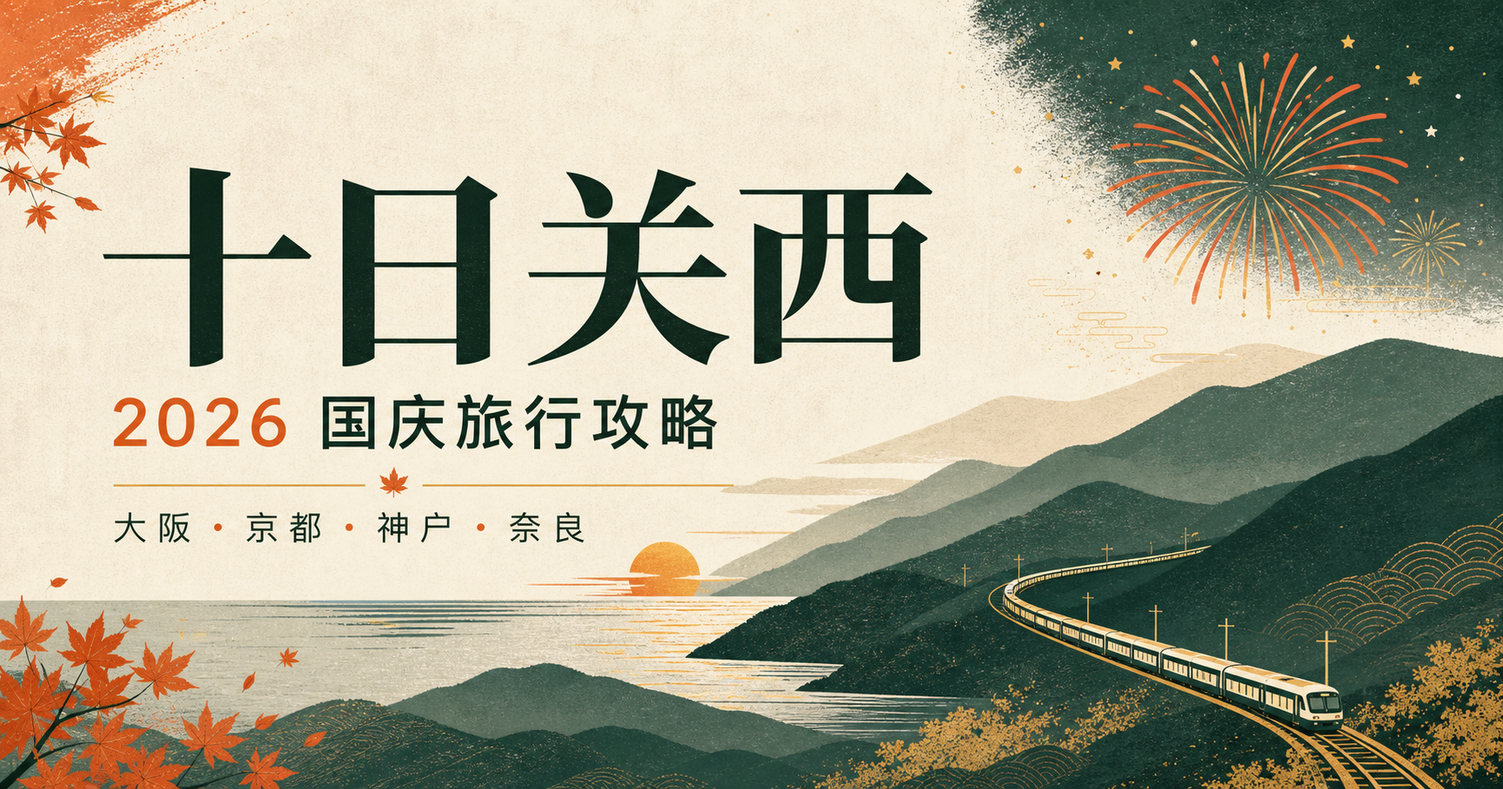
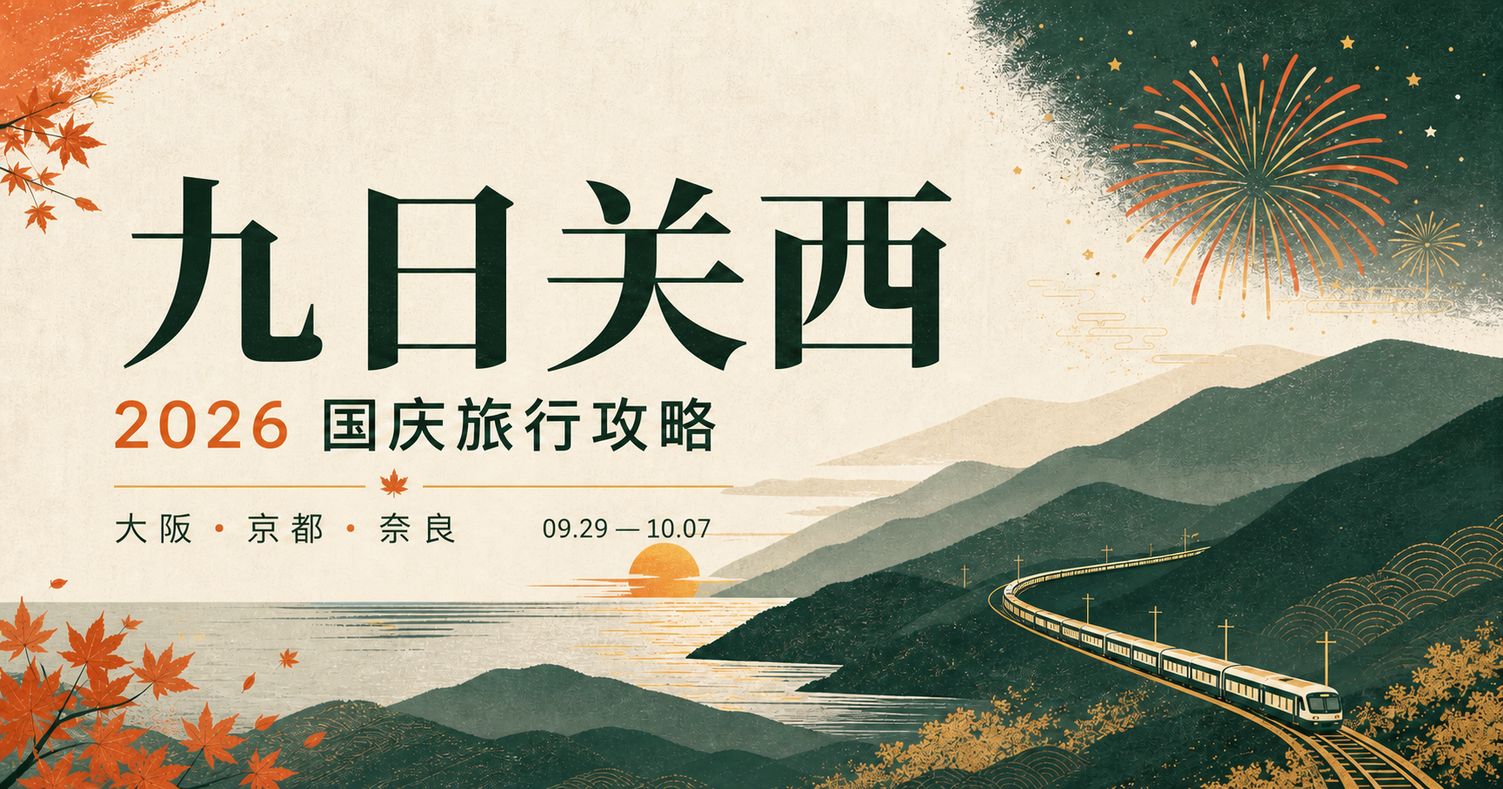
Revise Kansai trip for September 29

diff --git a/app/page.tsx b/app/page.tsx
@@ -1,33 +1,25 @@
 const days = [
   {
-    date: "09.28",
-    day: "周一",
+    date: "09.29",
+    day: "周二",
     city: "大阪",
     stay: "难波 / 心斋桥",
     title: "抵达关西，先去感受大阪的夜",
     route: "KIX → 难波入住 → 心斋桥筋 → 道顿堀 → 法善寺横丁",
     note: "按 14:00 落地计算，第一晚不安排长套餐。心斋桥是必到项，也适合处理药妆和基础购物。",
+    transit: "机场进城约 35–45 分钟；预计 16:00–16:30 到酒店",
     tone: "city",
   },
   {
-    date: "09.29",
-    day: "周二",
+    date: "09.30",
+    day: "周三",
     city: "大阪",
     stay: "难波 / 心斋桥",
     title: "USJ 全天：从任天堂世界玩到惊魂夜",
     route: "超级任天堂世界 → 哈利波特 → 主力项目 → 万圣节惊魂夜",
     note: "开园前 60–90 分钟抵达。购买含超级任天堂世界指定入场的 Express Pass，晚上保留体力看街头僵尸和限定内容。",
+    transit: "难波 → 环球城约 30–40 分钟；建议 7:00–7:30 离店",
     tone: "special",
-  },
-  {
-    date: "09.30",
-    day: "周三",
-    city: "神户",
-    stay: "难波 / 心斋桥",
-    title: "山、瀑布与港口夜景",
-    route: "新神户 → 布引缆车 → 香草园 → 布引瀑布 → 北野 → 美利坚公园",
-    note: "推荐缆车上山、徒步下山。雨后山路湿滑时改成缆车往返，下午再去港口和旧居留地。",
-    tone: "nature",
   },
   {
     date: "10.01",
@@ -37,6 +29,7 @@ const days = [
     title: "古寺之后，走进千年原始林",
     route: "东大寺 → 二月堂 → 春日大社 → 春日山原始林 → 奈良町",
     note: "不只停留在奈良公园。体力正常可走 2–3 小时林间短线；想轻松就缩短徒步，把傍晚留给奈良町。",
+    transit: "近铁大阪难波 ↔ 近铁奈良，单程约 40 分钟",
     tone: "nature",
   },
   {
@@ -46,7 +39,8 @@ const days = [
     stay: "京都站附近",
     title: "换城入住，沿东山慢慢散步",
     route: "银阁寺 → 哲学之道 → 南禅寺 → 圆山公园 → 八坂神社 → 祇园",
-    note: "上午将行李送至京都酒店后再出发。路线以步行为主，晚上适合安排菊乃井本店。",
+    note: "上午退房后直接到京都站附近酒店寄存行李。下午路线以步行为主，晚上适合安排菊乃井本店。",
+    transit: "难波 → 京都站约 50–60 分钟；京都站 → 银阁寺约 30–40 分钟",
     tone: "culture",
   },
   {
@@ -57,6 +51,7 @@ const days = [
     title: "岚山早行，避开周末人潮",
     route: "竹林 → 天龙寺 → 大河内山庄 → 常寂光寺 / 祇王寺 → 嵯峨野",
     note: "7:00 左右抵达竹林。以寺院庭园和嵯峨野小路为主，有余力再加金阁寺，不必硬塞保津川游船。",
+    transit: "JR 京都 → 嵯峨岚山约 17 分钟；当地步行 4–6 小时",
     tone: "nature",
   },
   {
@@ -67,6 +62,7 @@ const days = [
     title: "任天堂、宇治川与秋日烟火",
     route: "任天堂博物馆 → 平等院 → 宇治川 → JR 长池 → 城阳秋花火",
     note: "最理想是 10:00 左右入馆，14:00 后逛宇治，16:30 前到烟火会场。三处都在京都南部，几乎不折返。",
+    transit: "京都 → 小仓约 25–30 分钟；宇治 → 长池约 20 分钟；长池 → 京都约 35 分钟",
     tone: "special",
   },
   {
@@ -77,6 +73,7 @@ const days = [
     title: "翻过鞍马山，抵达贵船",
     route: "出町柳 → 鞍马寺 → 木根道 → 贵船神社三社 → 出町柳",
     note: "晴天从鞍马走到贵船约需半天；雨天取消山路，直接由贵船口搭巴士去神社。返程加入出町桝形商店街和鸭川跳石。",
+    transit: "京都 → 鞍马约 60–75 分钟；翻山 2.5–3 小时；贵船 → 京都约 70 分钟",
     tone: "nature",
   },
   {
@@ -87,6 +84,7 @@ const days = [
     title: "回到大阪，城市与购物收尾",
     route: "大阪城公园 → 中之岛 / 梅田 → 日本桥电电城 → 心斋桥",
     note: "上午从京都回大阪，先寄存行李。晚餐可订 La Cime，结束后回难波打包行李。",
+    transit: "京都站 → 难波约 50–60 分钟；大阪市内以地铁和步行为主",
     tone: "city",
   },
   {
@@ -97,6 +95,7 @@ const days = [
     title: "留足时间，舒服返沪",
     route: "难波 → 南海电铁 → 关西机场",
     note: "12:00 国际航班建议 7:45–8:00 离开酒店，约 9:00 抵达机场。",
+    transit: "南海 Rapi:t / 机场急行约 35–45 分钟，另留值机与安检时间",
     tone: "city",
   },
 ];
@@ -124,7 +123,7 @@ const bookingCards = [
     number: "03",
     urgency: "尽快锁定",
     title: "USJ",
-    body: "购买 9 月 29 日日期指定 Studio Pass，并选择含超级任天堂世界指定入场的 Express Pass。2026 万圣节惊魂夜正在举办。",
+    body: "购买 9 月 30 日日期指定 Studio Pass，并选择含超级任天堂世界指定入场的 Express Pass。当天仍在 2026 万圣节惊魂夜活动期内。",
     meta: "当天可能早于标示时间开园",
     href: "https://www.usj.co.jp/web/en/us/tickets/express-pass",
     cta: "查看 Express Pass",
@@ -153,10 +152,11 @@ const restaurants = [
 ];
 
 const practical = [
-  ["住宿", "9.28–10.02 大阪难波／心斋桥；10.02–10.06 京都站；10.06 最后一晚回难波。"],
-  ["行李", "10 月 1 日请大阪酒店协助把大箱子宅配到京都，去任天堂和烟火当天只带随身包。"],
+  ["住宿", "9.29–10.02 大阪难波／心斋桥 3 晚；10.02–10.06 京都站 4 晚；10.06 最后一晚回难波。"],
+  ["行李", "10 月 2 日退房后带行李直接去京都站附近酒店寄存；10 月 6 日同样先回难波寄存，再开始大阪市内行程。"],
   ["交通", "关西内部使用 ICOCA 加单独购票即可，一般不需要全国 JR Pass；京都优先坐铁路而不是挤巴士。"],
-  ["天气", "9 月末仍可能受台风和阵雨影响。神户、奈良两天可互换；贵船下雨则保留神社、取消翻山。"],
+  ["取舍", "出发改为 9 月 29 日后少了一整天，主线保留奈良、删去神户；若更想看神户，可用神户布引＋港口替换 10 月 1 日奈良。"],
+  ["天气", "9 月末仍可能受台风和阵雨影响。奈良与岚山可视天气微调；贵船下雨则保留神社、取消翻山。"],
 ];
 
 export default function Home() {
@@ -178,14 +178,14 @@ export default function Home() {
 
         <div className="hero-content shell">
           <p className="eyebrow">2026 · 国庆关西旅行手册</p>
-          <h1>十日关西，<br />沿山海与烟火前行。</h1>
+          <h1>九日关西，<br />沿山林与烟火前行。</h1>
           <p className="hero-copy">
-            从大阪的霓虹出发，穿过神户山海、奈良古林和京都北山，
+            从大阪的霓虹出发，穿过奈良古林、岚山嵯峨野和京都北山，
             把任天堂、贵船、USJ 与一场秋日烟火串成一条舒服的路线。
           </p>
           <div className="hero-actions">
             <a className="primary-button" href="#route">开始阅读</a>
-            <span className="trip-date">09.28 — 10.07</span>
+            <span className="trip-date">09.29 — 10.07</span>
           </div>
         </div>
 
@@ -197,7 +197,7 @@ export default function Home() {
       <section className="overview shell" aria-label="行程概览">
         <article>
           <span>住宿节奏</span>
-          <strong>大阪 4晚 · 京都 4晚 · 大阪 1晚</strong>
+          <strong>大阪 3晚 · 京都 4晚 · 大阪 1晚</strong>
         </article>
         <article>
           <span>路线基调</span>
@@ -224,6 +224,7 @@ export default function Home() {
               <span><i className="legend-line main-line" />换住宿地</span>
               <span><i className="legend-line day-line" />当天往返</span>
               <span><i className="legend-dot" />住宿据点</span>
+              <span><i className="legend-label">约</i>预计交通时间</span>
             </div>
             <span className="map-hint">手机端可左右滑动查看</span>
           </div>
@@ -238,72 +239,77 @@ export default function Home() {
               <i className="map-line main map-line-kix-osaka" aria-hidden="true" />
               <i className="map-line main map-line-osaka-kyoto" aria-hidden="true" />
               <i className="map-line day map-line-osaka-usj" aria-hidden="true" />
-              <i className="map-line day map-line-osaka-kobe" aria-hidden="true" />
               <i className="map-line day map-line-osaka-nara" aria-hidden="true" />
               <i className="map-line day map-line-kyoto-arashiyama" aria-hidden="true" />
               <i className="map-line day map-line-kyoto-kifune" aria-hidden="true" />
               <i className="map-line day map-line-kyoto-uji" aria-hidden="true" />
               <i className="map-line event map-line-uji-joyo" aria-hidden="true" />
 
+              <span className="map-route-label label-kix"><strong>南海 Rapi:t / 机场急行</strong>约 35–45 分</span>
+              <span className="map-route-label label-usj"><strong>JR 换乘</strong>约 30–40 分</span>
+              <span className="map-route-label label-nara"><strong>近铁奈良线</strong>单程约 40 分</span>
+              <span className="map-route-label label-osaka-kyoto"><strong>地铁＋JR 新快速</strong>约 50–60 分</span>
+              <span className="map-route-label label-arashiyama"><strong>JR 嵯峨野线</strong>约 17 分</span>
+              <span className="map-route-label label-kifune"><strong>JR＋京阪＋叡山电铁</strong>约 60–75 分</span>
+              <span className="map-route-label label-uji"><strong>近铁京都线</strong>约 25–30 分</span>
+              <span className="map-route-label label-joyo"><strong>JR 奈良线</strong>约 20 分</span>
+
               <a className="map-node node-kix" href="https://www.google.com/maps/search/?api=1&query=Kansai+International+Airport" target="_blank" rel="noreferrer">
                 <span className="node-marker airport">✦</span>
                 <strong>关西机场</strong>
-                <small>09.28 / 10.07</small>
+                <small>09.29 抵达 / 10.07 返程</small>
               </a>
-              <a className="map-node hub node-osaka" href="https://www.google.com/maps/search/?api=1&query=Namba+Osaka" target="_blank" rel="noreferrer">
+              <a className="map-node hub stay-node node-osaka" href="https://www.google.com/maps/search/?api=1&query=Namba+Osaka" target="_blank" rel="noreferrer">
+                <span className="stay-badge">住宿</span>
                 <span className="node-marker">1</span>
-                <strong>大阪</strong>
-                <small>难波 · 两段住宿</small>
+                <strong>大阪 · 难波 / 心斋桥</strong>
+                <small>09.29–10.02 · 3晚<br />10.06 · 1晚</small>
               </a>
               <a className="map-node node-usj" href="https://www.google.com/maps/search/?api=1&query=Universal+Studios+Japan" target="_blank" rel="noreferrer">
                 <span className="node-marker">2</span>
                 <strong>USJ</strong>
-                <small>09.29</small>
-              </a>
-              <a className="map-node node-kobe" href="https://www.google.com/maps/search/?api=1&query=Shin-Kobe+Station" target="_blank" rel="noreferrer">
-                <span className="node-marker">3</span>
-                <strong>神户</strong>
-                <small>09.30</small>
+                <small>09.30 · 全天</small>
               </a>
               <a className="map-node node-nara" href="https://www.google.com/maps/search/?api=1&query=Nara+Park" target="_blank" rel="noreferrer">
-                <span className="node-marker">4</span>
+                <span className="node-marker">3</span>
                 <strong>奈良</strong>
                 <small>10.01</small>
               </a>
-              <a className="map-node hub node-kyoto" href="https://www.google.com/maps/search/?api=1&query=Kyoto+Station" target="_blank" rel="noreferrer">
-                <span className="node-marker">5</span>
-                <strong>京都</strong>
-                <small>京都站 · 四晚</small>
+              <a className="map-node hub stay-node node-kyoto" href="https://www.google.com/maps/search/?api=1&query=Kyoto+Station" target="_blank" rel="noreferrer">
+                <span className="stay-badge">住宿</span>
+                <span className="node-marker">4</span>
+                <strong>京都 · 京都站附近</strong>
+                <small>10.02–10.06 · 4晚</small>
               </a>
               <a className="map-node node-arashiyama" href="https://www.google.com/maps/search/?api=1&query=Arashiyama+Kyoto" target="_blank" rel="noreferrer">
-                <span className="node-marker">6</span>
+                <span className="node-marker">5</span>
                 <strong>岚山</strong>
                 <small>10.03</small>
               </a>
               <a className="map-node node-kifune" href="https://www.google.com/maps/search/?api=1&query=Kifune+Shrine+Kyoto" target="_blank" rel="noreferrer">
                 <span className="node-marker">8</span>
                 <strong>贵船 · 鞍马</strong>
-                <small>10.05</small>
+                <small>10.05 · 徒步 2.5–3 小时</small>
               </a>
               <a className="map-node node-uji" href="https://www.google.com/maps/search/?api=1&query=Nintendo+Museum+Uji" target="_blank" rel="noreferrer">
-                <span className="node-marker">7</span>
-                <strong>宇治</strong>
-                <small>任天堂博物馆</small>
+                <span className="node-marker">6</span>
+                <strong>宇治 · 任天堂博物馆</strong>
+                <small>10.04 · 预约入馆</small>
               </a>
               <a className="map-node event-node node-joyo" href="https://www.google.com/maps/search/?api=1&query=Kyoto+Prefectural+Kizugawa+Sports+Park" target="_blank" rel="noreferrer">
-                <span className="node-marker">✺</span>
-                <strong>城阳</strong>
-                <small>10.04 烟火</small>
+                <span className="node-marker">7</span>
+                <strong>城阳 · 长池</strong>
+                <small>10.04 · 19:00 烟火</small>
               </a>
             </div>
           </div>
 
           <ol className="route-sequence" aria-label="住宿和往返顺序">
-            <li><span>01</span><strong>KIX → 大阪</strong><small>入境后住难波 4 晚</small></li>
-            <li><span>02</span><strong>大阪放射往返</strong><small>USJ · 神户 · 奈良</small></li>
-            <li><span>03</span><strong>大阪 → 京都</strong><small>10.02 换住宿地</small></li>
-            <li><span>04</span><strong>京都放射往返</strong><small>岚山 · 贵船 · 宇治城阳</small></li>
-            <li><span>05</span><strong>京都 → 大阪 → KIX</strong><small>最后一晚回难波</small></li>
+            <li><span>01</span><strong>09.29 · KIX → 大阪</strong><small>约 35–45 分 · 难波住 3 晚</small></li>
+            <li><span>02</span><strong>09.30–10.01 · 往返</strong><small>USJ 约 30–40 分 · 奈良约 40 分</small></li>
+            <li><span>03</span><strong>10.02 · 大阪 → 京都</strong><small>约 50–60 分 · 京都站住 4 晚</small></li>
+            <li><span>04</span><strong>10.03–10.05 · 往返</strong><small>岚山 · 宇治城阳 · 贵船鞍马</small></li>
+            <li><span>05</span><strong>10.06–10.07 · 大阪返程</strong><small>回难波住 1 晚 · 次晨去 KIX</small></li>
           </ol>
         </div>
       </section>
@@ -328,6 +334,7 @@ export default function Home() {
               <div className="timeline-copy">
                 <h3>{item.title}</h3>
                 <p className="route-line">{item.route}</p>
+                <p className="transit-line"><span>交通耗时</span>{item.transit}</p>
                 <p>{item.note}</p>
               </div>
             </article>
@@ -449,7 +456,7 @@ export default function Home() {
       <section className="practical shell" aria-labelledby="practical-title">
         <div className="practical-title">
           <p className="eyebrow dark">GOOD TO KNOW</p>
-          <h2 id="practical-title">让路线保持松弛的四件事。</h2>
+          <h2 id="practical-title">让路线保持松弛的五件事。</h2>
         </div>
         <div className="practical-list">
           {practical.map(([title, body], index) => (

diff --git a/app/globals.css b/app/globals.css
@@ -84,51 +84,62 @@ a:focus-visible { outline: 3px solid var(--gold); outline-offset: 5px; border-ra
 .legend-line.main-line { background: var(--orange); }
 .legend-line.day-line { height: 0; border-top: 2px dashed var(--moss); }
 .legend-dot { display: inline-block; width: 9px; height: 9px; border-radius: 50%; background: var(--ink); box-shadow: 0 0 0 4px rgba(22,35,30,.1); }
+.legend-label { display: grid; place-items: center; width: 20px; height: 18px; border: 1px solid rgba(22,35,30,.22); border-radius: 4px; color: var(--orange); background: var(--cream); font: 700 9px Georgia, serif; }
 .map-hint { color: #918980; font-size: 11px; }
 .map-scroller { overflow-x: auto; overscroll-behavior-inline: contain; background: #dfe9e5; scrollbar-color: var(--orange) rgba(22,35,30,.08); scrollbar-width: thin; }
 .map-scroller::-webkit-scrollbar { height: 8px; }
 .map-scroller::-webkit-scrollbar-thumb { border-radius: 999px; background: var(--orange); }
 .map-scroller::-webkit-scrollbar-track { background: rgba(22,35,30,.08); }
-.route-map-canvas { position: relative; width: 900px; min-width: 900px; height: 620px; margin: 0 auto; overflow: hidden; }
+.route-map-canvas { position: relative; width: 960px; min-width: 960px; height: 680px; margin: 0 auto; overflow: hidden; }
 .route-map-canvas::before { content: ""; position: absolute; inset: 0; opacity: .25; background-image: radial-gradient(rgba(22,35,30,.35) .65px, transparent .65px); background-size: 15px 15px; }
 .map-land { position: absolute; pointer-events: none; }
-.land-kansai { left: 30px; top: 25px; width: 820px; height: 560px; background: #f3efe5; clip-path: polygon(31% 0, 67% 4%, 87% 15%, 100% 34%, 95% 62%, 82% 79%, 58% 90%, 45% 100%, 19% 94%, 7% 79%, 0 55%, 8% 33%, 20% 19%); box-shadow: inset 0 0 0 1px rgba(22,35,30,.14); }
+.land-kansai { left: 30px; top: 25px; width: 890px; height: 620px; background: #f3efe5; clip-path: polygon(31% 0, 67% 4%, 87% 15%, 100% 34%, 95% 62%, 82% 79%, 58% 90%, 45% 100%, 19% 94%, 7% 79%, 0 55%, 8% 33%, 20% 19%); box-shadow: inset 0 0 0 1px rgba(22,35,30,.14); }
 .land-kansai::after { content: ""; position: absolute; left: 0; bottom: 0; width: 49%; height: 52%; background: #dfe9e5; clip-path: polygon(0 0, 48% 15%, 78% 42%, 100% 100%, 0 100%); }
-.land-bay { left: 200px; top: 320px; width: 220px; height: 170px; border: 1px solid rgba(53,92,69,.18); border-radius: 58% 42% 48% 52%; transform: rotate(-14deg); }
-.sea-label { position: absolute; left: 178px; top: 430px; color: rgba(53,92,69,.52); font: italic 14px Georgia, serif; letter-spacing: .12em; transform: rotate(-16deg); }
+.land-bay { left: 190px; top: 350px; width: 250px; height: 190px; border: 1px solid rgba(53,92,69,.18); border-radius: 58% 42% 48% 52%; transform: rotate(-14deg); }
+.sea-label { position: absolute; left: 170px; top: 490px; color: rgba(53,92,69,.52); font: italic 14px Georgia, serif; letter-spacing: .12em; transform: rotate(-16deg); }
 .north-label { position: absolute; right: 28px; top: 24px; color: rgba(22,35,30,.58); font: 12px Georgia, serif; letter-spacing: .12em; }
 .map-line { position: absolute; z-index: 2; display: block; height: 0; transform-origin: left center; }
 .map-line.main { border-top: 5px solid var(--orange); }
 .map-line.main::after { content: ""; position: absolute; right: -3px; top: -8px; width: 10px; height: 10px; border-top: 3px solid var(--orange); border-right: 3px solid var(--orange); transform: rotate(45deg); }
 .map-line.day { border-top: 3px dashed var(--moss); opacity: .85; }
 .map-line.event { border-top: 4px dotted #d59d2f; }
-.map-line-kix-osaka { left: 190px; top: 520px; width: 269px; transform: rotate(-42deg); }
-.map-line-osaka-kyoto { left: 390px; top: 340px; width: 302px; transform: rotate(-26.6deg); }
-.map-line-osaka-usj { left: 270px; top: 365px; width: 122px; transform: rotate(-12deg); }
-.map-line-osaka-kobe { left: 105px; top: 300px; width: 288px; transform: rotate(8deg); }
-.map-line-osaka-nara { left: 390px; top: 340px; width: 275px; transform: rotate(19deg); }
-.map-line-kyoto-arashiyama { left: 520px; top: 165px; width: 146px; transform: rotate(16deg); }
-.map-line-kyoto-kifune { left: 660px; top: 205px; width: 146px; transform: rotate(-68deg); }
-.map-line-kyoto-uji { left: 660px; top: 205px; width: 112px; transform: rotate(69deg); }
-.map-line-uji-joyo { left: 700px; top: 310px; width: 87px; transform: rotate(59deg); }
-.map-node { position: absolute; z-index: 3; width: 150px; min-height: 78px; display: grid; justify-items: center; align-content: start; text-align: center; transform: translate(-50%, -50%); }
+.map-line-kix-osaka { left: 160px; top: 570px; width: 316px; transform: rotate(-40.5deg); }
+.map-line-osaka-kyoto { left: 400px; top: 365px; width: 320px; transform: rotate(-29deg); }
+.map-line-osaka-usj { left: 250px; top: 405px; width: 155px; transform: rotate(-14.5deg); }
+.map-line-osaka-nara { left: 400px; top: 365px; width: 311px; transform: rotate(27.8deg); }
+.map-line-kyoto-arashiyama { left: 505px; top: 165px; width: 181px; transform: rotate(14.4deg); }
+.map-line-kyoto-kifune { left: 680px; top: 210px; width: 168px; transform: rotate(-63.4deg); }
+.map-line-kyoto-uji { left: 680px; top: 210px; width: 149px; transform: rotate(70.3deg); }
+.map-line-uji-joyo { left: 730px; top: 350px; width: 137px; transform: rotate(56.9deg); }
+.map-route-label { position: absolute; z-index: 3; display: flex; flex-direction: column; min-width: 112px; padding: 6px 8px; border: 1px solid rgba(22,35,30,.16); border-radius: 6px; color: var(--muted); background: rgba(255,253,248,.94); box-shadow: 0 4px 12px rgba(22,35,30,.07); font-size: 9px; line-height: 1.45; text-align: left; }
+.map-route-label strong { color: var(--ink); font-size: 9px; }
+.label-kix { left: 176px; top: 458px; }
+.label-usj { left: 225px; top: 322px; }
+.label-nara { left: 500px; top: 424px; }
+.label-osaka-kyoto { left: 465px; top: 264px; }
+.label-arashiyama { left: 490px; top: 88px; }
+.label-kifune { left: 600px; top: 58px; }
+.label-uji { left: 720px; top: 260px; }
+.label-joyo { left: 790px; top: 372px; }
+.map-node { position: absolute; z-index: 4; width: 170px; min-height: 78px; display: grid; justify-items: center; align-content: start; text-align: center; transform: translate(-50%, -50%); }
 .map-node:hover .node-marker { transform: translateY(-3px) scale(1.06); box-shadow: 0 9px 22px rgba(22,35,30,.2); }
 .node-marker { display: grid; place-items: center; width: 34px; height: 34px; margin-bottom: 7px; border: 3px solid #f3efe5; border-radius: 50%; color: #fff; background: var(--moss); box-shadow: 0 4px 14px rgba(22,35,30,.16); font: 700 12px Georgia, serif; transition: transform .2s ease, box-shadow .2s ease; }
 .map-node.hub .node-marker { width: 45px; height: 45px; color: var(--ink); background: var(--gold); box-shadow: 0 0 0 7px rgba(245,185,76,.2), 0 8px 20px rgba(22,35,30,.18); font-size: 14px; }
 .map-node.event-node .node-marker { color: #fff; background: var(--orange); box-shadow: 0 0 0 7px rgba(239,106,57,.16); font-size: 18px; }
 .node-marker.airport { color: var(--ink); background: #fff; border-color: var(--orange); font-size: 17px; }
+.stay-node { width: 220px; }
+.stay-badge { position: absolute; top: 8px; right: 17px; padding: 4px 7px; border-radius: 999px; color: #fff; background: var(--orange); box-shadow: 0 4px 12px rgba(239,106,57,.24); font-size: 8px; font-weight: 800; letter-spacing: .08em; }
 .map-node strong { padding: 3px 6px; color: var(--ink); background: rgba(243,239,229,.88); border-radius: 4px; font: 600 15px Georgia, "Noto Serif SC", serif; }
-.map-node small { margin-top: 3px; padding: 2px 5px; color: var(--muted); background: rgba(243,239,229,.78); border-radius: 3px; font-size: 9px; letter-spacing: .04em; }
-.node-kix { left: 190px; top: 520px; }
-.node-osaka { left: 390px; top: 340px; }
-.node-usj { left: 270px; top: 365px; }
-.node-kobe { left: 105px; top: 300px; }
-.node-nara { left: 650px; top: 430px; }
-.node-kyoto { left: 660px; top: 205px; }
-.node-arashiyama { left: 520px; top: 165px; }
-.node-kifune { left: 715px; top: 70px; }
-.node-uji { left: 700px; top: 310px; }
-.node-joyo { left: 745px; top: 385px; }
+.map-node small { margin-top: 3px; padding: 2px 5px; color: var(--muted); background: rgba(243,239,229,.82); border-radius: 3px; font-size: 10px; line-height: 1.45; letter-spacing: .02em; }
+.node-kix { left: 160px; top: 570px; }
+.node-osaka { left: 400px; top: 365px; }
+.node-usj { left: 250px; top: 405px; }
+.node-nara { left: 675px; top: 510px; }
+.node-kyoto { left: 680px; top: 210px; }
+.node-arashiyama { left: 505px; top: 165px; }
+.node-kifune { left: 755px; top: 60px; }
+.node-uji { left: 730px; top: 350px; }
+.node-joyo { left: 805px; top: 465px; }
 .route-sequence { display: grid; grid-template-columns: repeat(5, 1fr); margin: 0; padding: 0; list-style: none; border-top: 1px solid var(--line); }
 .route-sequence li { min-height: 125px; padding: 23px 19px; display: flex; flex-direction: column; border-right: 1px solid var(--line); }
 .route-sequence li:last-child { border-right: 0; }
@@ -157,6 +168,8 @@ a:focus-visible { outline: 3px solid var(--gold); outline-offset: 5px; border-ra
 .timeline-copy h3 { margin: 0 0 12px; font: 500 25px Georgia, "Noto Serif SC", serif; }
 .timeline-copy p { margin: 0; max-width: 720px; color: var(--muted); font-size: 14px; line-height: 1.75; }
 .timeline-copy .route-line { margin-bottom: 9px; color: var(--ink); font-weight: 700; }
+.timeline-copy .transit-line { display: flex; align-items: center; gap: 9px; margin: 0 0 9px; color: #6b5c51; font-size: 12px; }
+.transit-line span { flex: 0 0 auto; padding: 4px 7px; border-radius: 999px; color: #914323; background: rgba(239,106,57,.12); font-size: 9px; font-weight: 800; letter-spacing: .06em; }
 
 .feature { overflow: hidden; padding: 125px 0; color: #fff8ec; background: var(--deep-moss); }
 .feature-grid { display: grid; grid-template-columns: .9fr 1.1fr; gap: 90px; align-items: center; }

diff --git a/app/layout.tsx b/app/layout.tsx
@@ -13,9 +13,9 @@ const geistMono = Geist_Mono({
   subsets: ["latin"],
 });
 
-const title = "十日关西｜2026 国庆旅行攻略";
+const title = "九日关西｜2026 国庆旅行攻略";
 const description =
-  "大阪、京都、神户与奈良十日旅行路线：USJ、任天堂博物馆、贵船神社与城阳秋花火。";
+  "9 月 29 日至 10 月 7 日大阪、京都与奈良九日路线：USJ、任天堂博物馆、贵船神社与城阳秋花火。";
 
 export async function generateMetadata(): Promise<Metadata> {
   const requestHeaders = await headers();
@@ -40,7 +40,7 @@ export async function generateMetadata(): Promise<Metadata> {
           url: imageUrl,
           width: 1731,
           height: 909,
-          alt: "十日关西 2026 国庆旅行攻略",
+          alt: "九日关西 2026 国庆旅行攻略",
         },
       ],
     },
